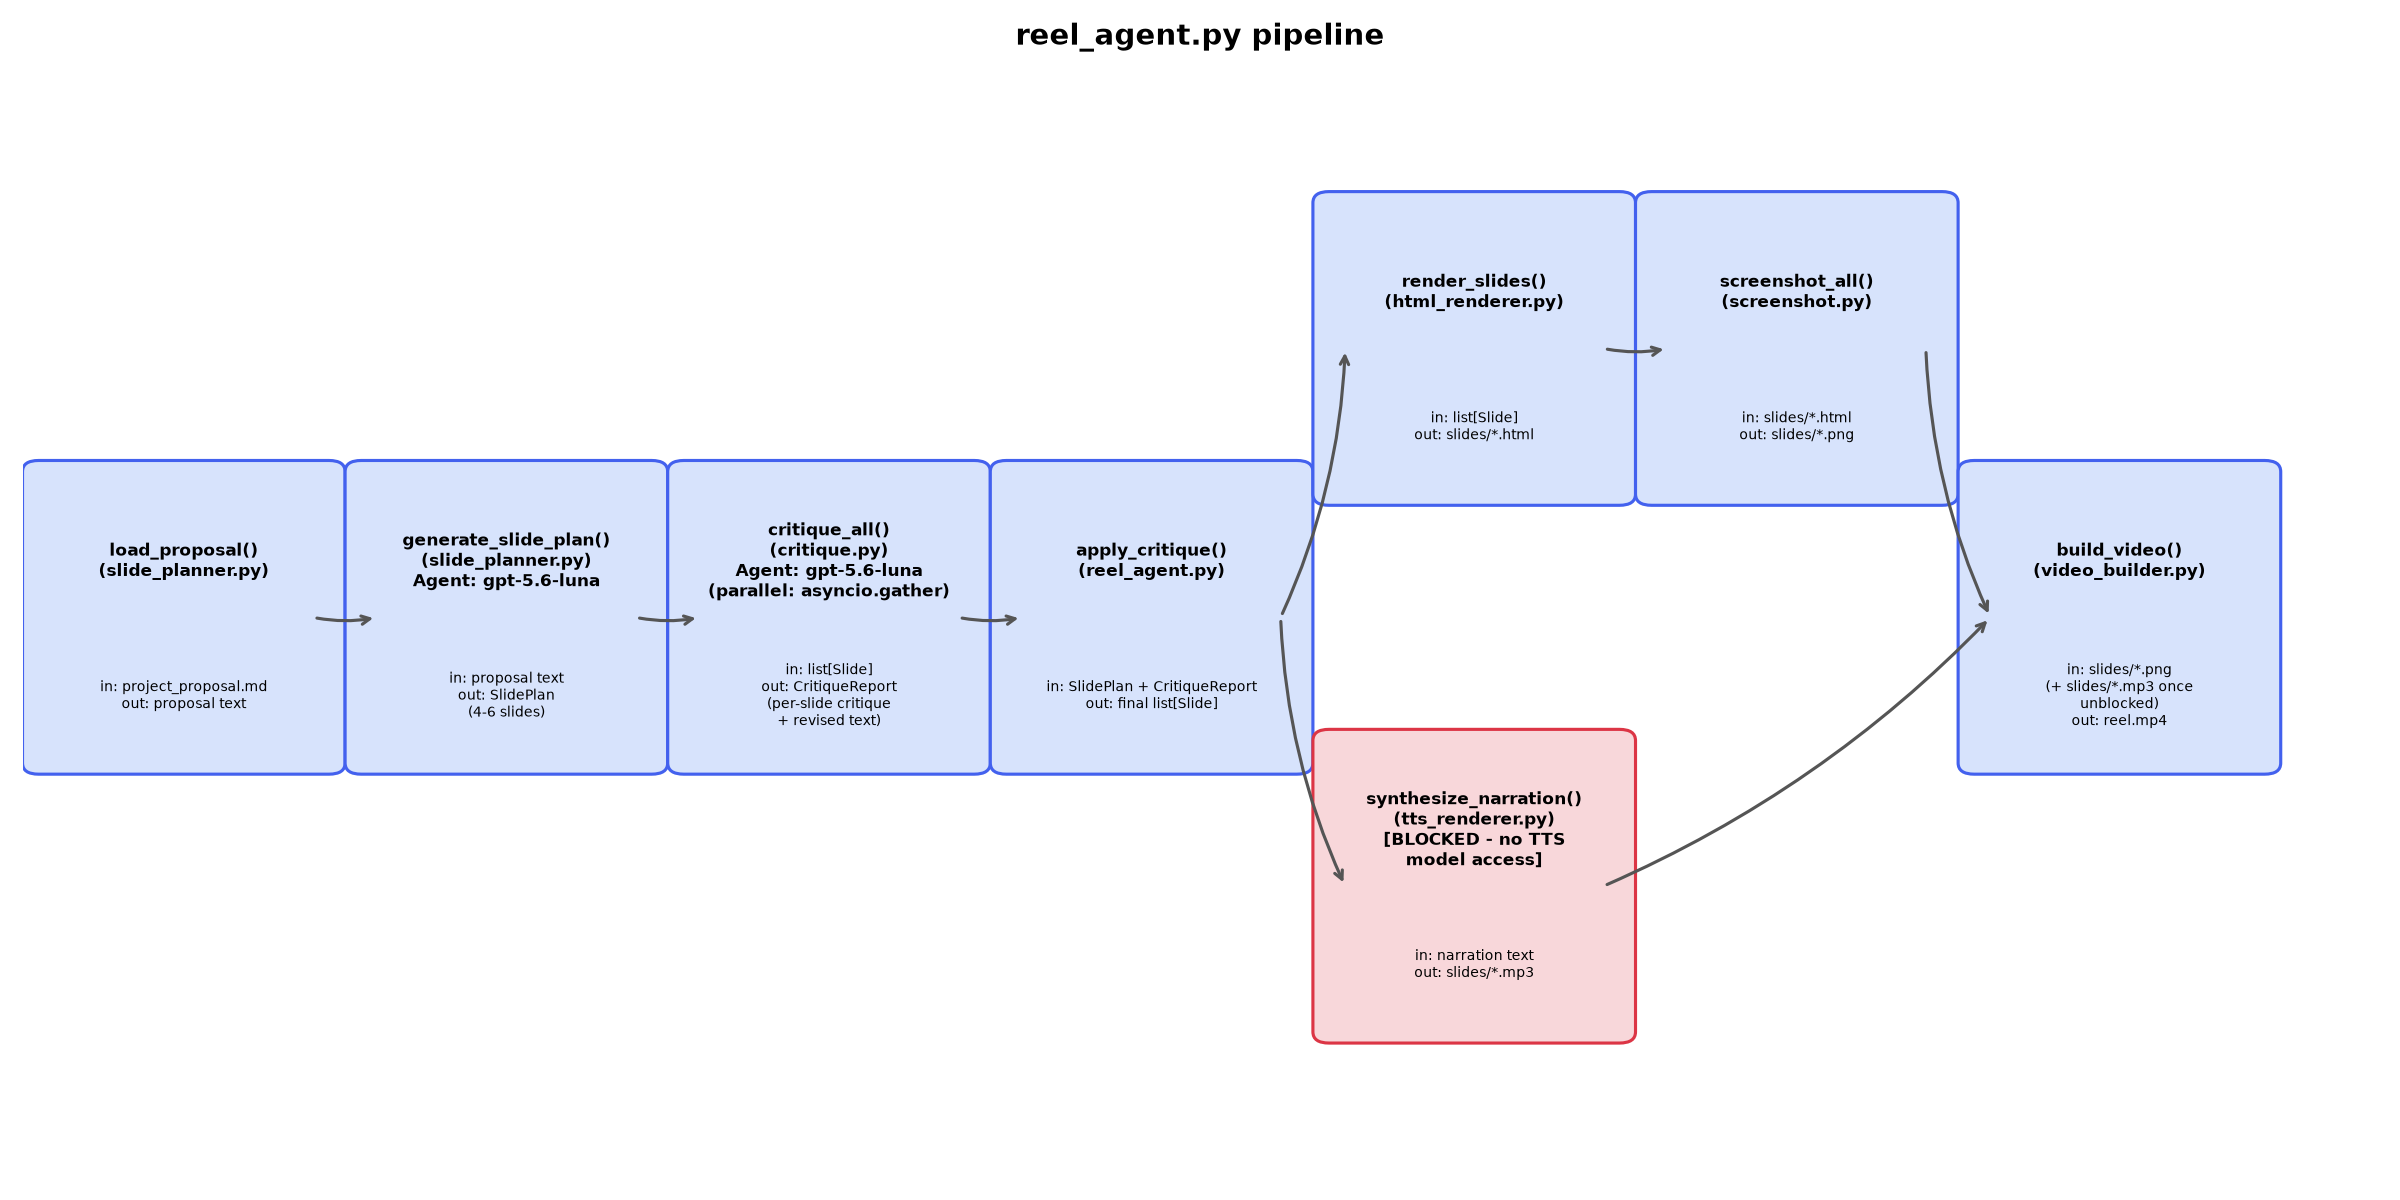
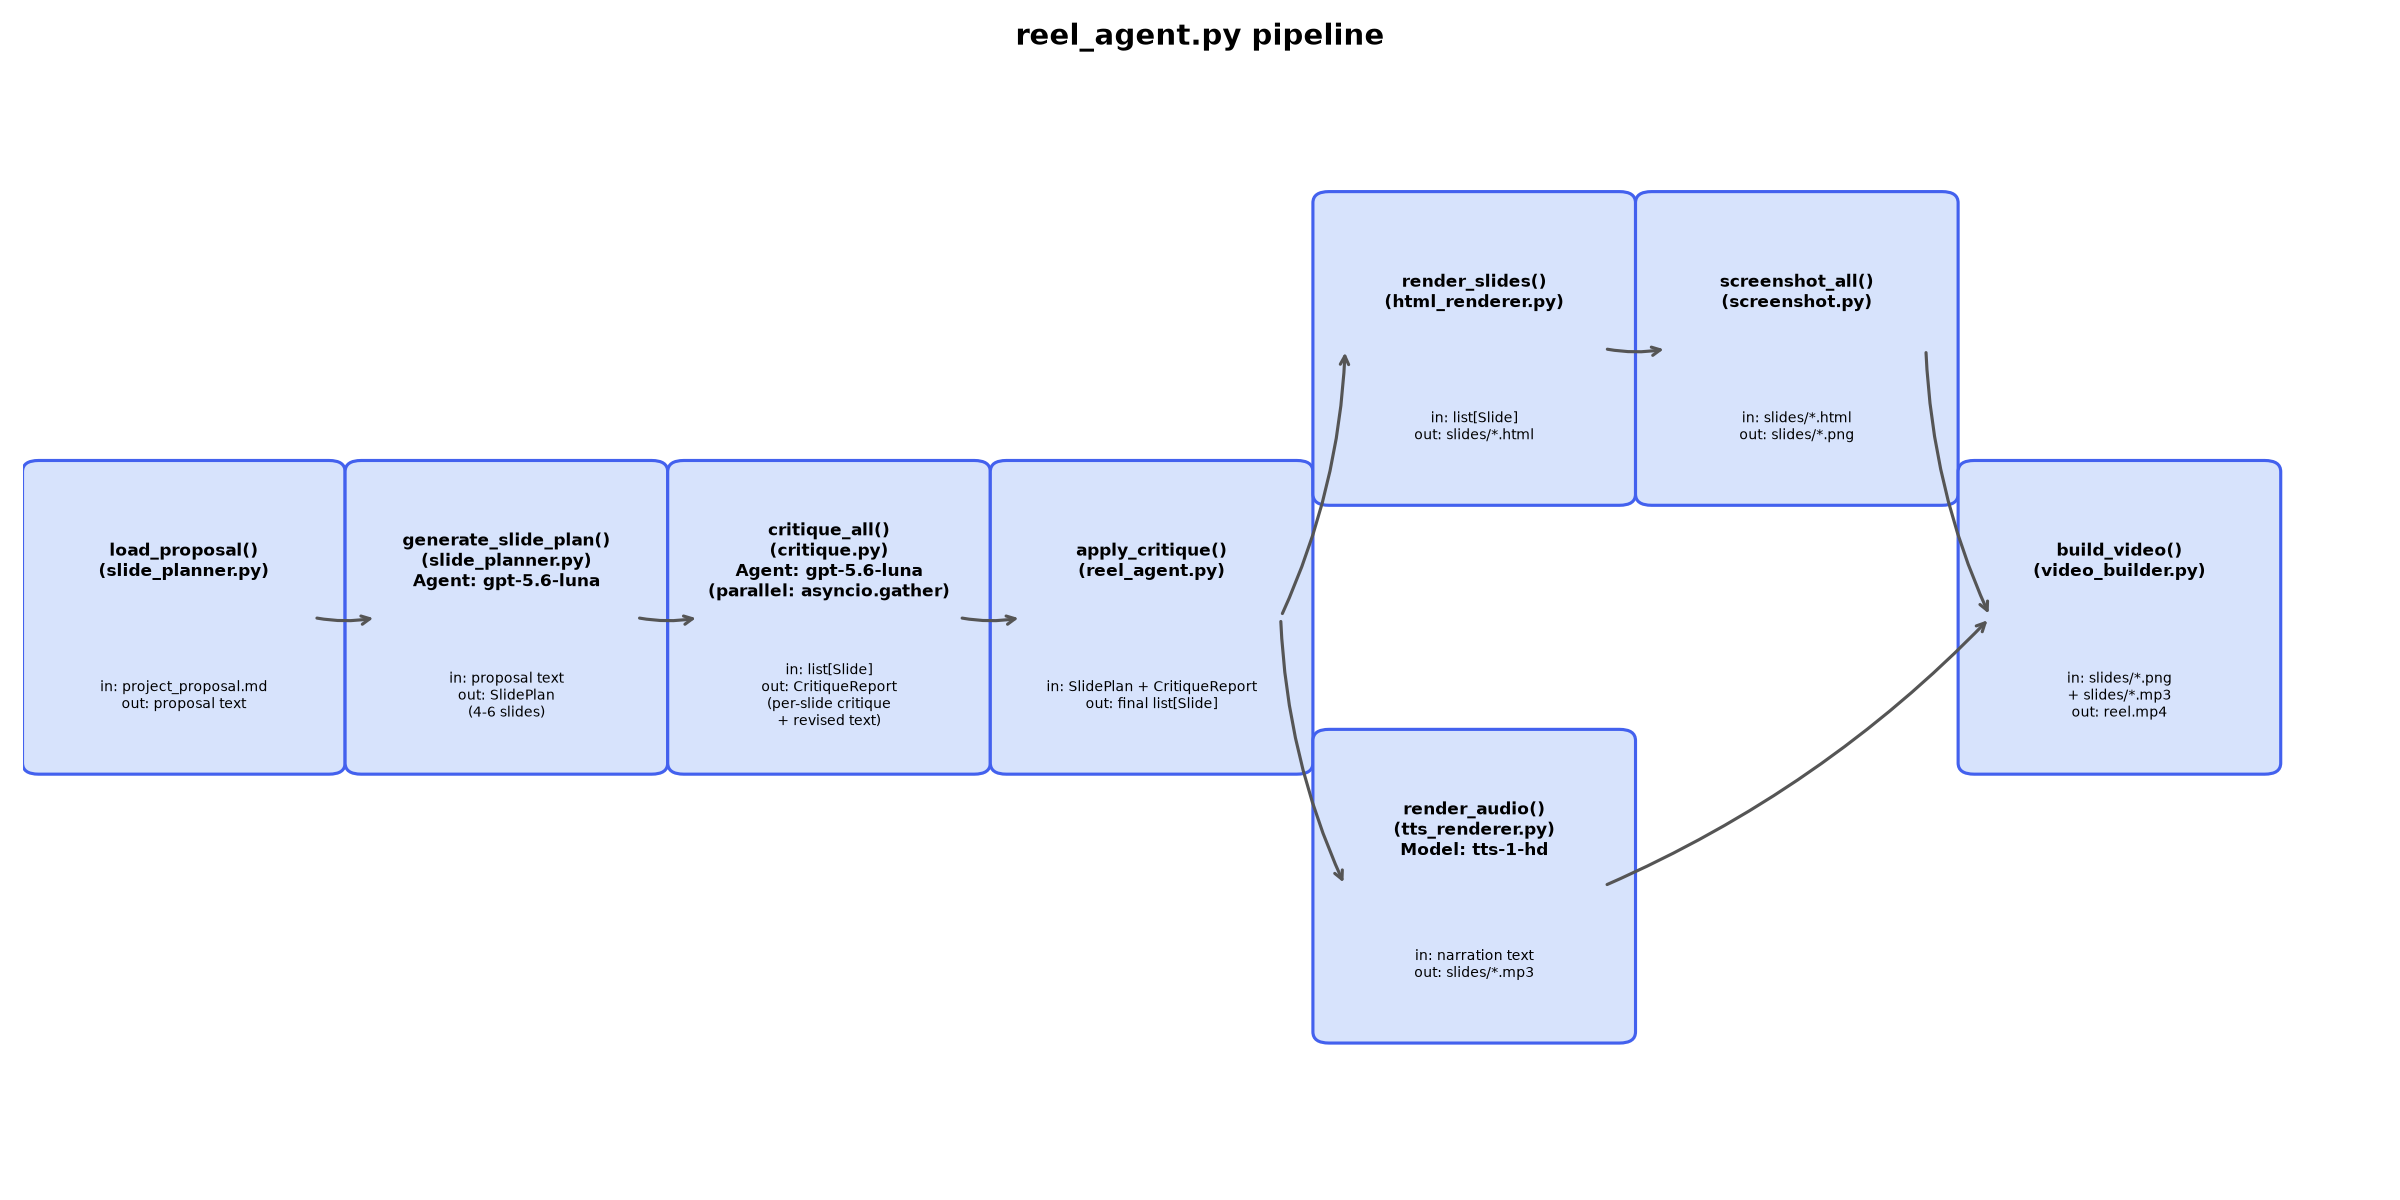
Remove walking figure from slide 1, fix stale agent_flow.png
The flow diagram still showed TTS as blocked from before tts-1-hd was
wired in; regenerate it to show render_audio() as a normal working
step instead of a red BLOCKED node.

Changed region(s): [[0.5312, 0.5858, 0.6875, 0.8942], [0.8438, 0.555, 0.9062, 0.6167]]

diff --git a/slides/slide_1.html b/slides/slide_1.html
@@ -121,14 +121,6 @@
       <path d="M105 118 L128 126 L105 134 Z" fill="#58a6ff"/>
     </g>
 
-    <!-- walking player figure, near the WORK tower -->
-    <g fill="#ffe08a" opacity="0.9">
-      <circle cx="205" cy="272" r="6"/>
-      <path d="M199 280 L211 280 L209 296 L206 296 L205 286 L204 296 L201 296 Z"/>
-      <line x1="199" y1="284" x2="191" y2="292" stroke="#ffe08a" stroke-width="3" stroke-linecap="round"/>
-      <line x1="211" y1="284" x2="219" y2="278" stroke="#ffe08a" stroke-width="3" stroke-linecap="round"/>
-    </g>
-
     <!-- INVEST marker: stock tower with ticker, green -->
     <g>
       <rect x="490" y="120" width="100" height="180" fill="url(#panelGradient)" stroke="#3fb950" stroke-width="2" filter="url(#dropshadow)"/>

diff --git a/draw_flow_diagram.py b/draw_flow_diagram.py
@@ -10,9 +10,9 @@ NODES = [
     ("critique_all()\n(critique.py)\nAgent: gpt-5.6-luna\n(parallel: asyncio.gather)", "in: list[Slide]\nout: CritiqueReport\n(per-slide critique\n+ revised text)", 2, 4),
     ("apply_critique()\n(reel_agent.py)", "in: SlidePlan + CritiqueReport\nout: final list[Slide]", 3, 4),
     ("render_slides()\n(html_renderer.py)", "in: list[Slide]\nout: slides/*.html", 4, 5.2),
-    ("synthesize_narration()\n(tts_renderer.py)\n[BLOCKED - no TTS\nmodel access]", "in: narration text\nout: slides/*.mp3", 4, 2.8),
+    ("render_audio()\n(tts_renderer.py)\nModel: tts-1-hd", "in: narration text\nout: slides/*.mp3", 4, 2.8),
     ("screenshot_all()\n(screenshot.py)", "in: slides/*.html\nout: slides/*.png", 5, 5.2),
-    ("build_video()\n(video_builder.py)", "in: slides/*.png\n(+ slides/*.mp3 once\nunblocked)\nout: reel.mp4", 6, 4),
+    ("build_video()\n(video_builder.py)", "in: slides/*.png\n+ slides/*.mp3\nout: reel.mp4", 6, 4),
 ]
 
 EDGES = [
@@ -30,9 +30,8 @@ box_w, box_h = 0.9, 1.3
 centers = {}
 
 for i, (title, io, x, y) in enumerate(NODES):
-    blocked = "BLOCKED" in title
-    color = "#f8d7da" if blocked else "#d7e3fc"
-    edge = "#dc3545" if blocked else "#4361ee"
+    color = "#d7e3fc"
+    edge = "#4361ee"
     box = FancyBboxPatch(
         (x - box_w / 2, y - box_h / 2), box_w, box_h,
         boxstyle="round,pad=0.05", linewidth=1.5,

diff --git a/html_renderer.py b/html_renderer.py
@@ -177,14 +177,6 @@ VISUAL_SLIDE_1 = """<!doctype html>
       <path d="M105 118 L128 126 L105 134 Z" fill="#58a6ff"/>
     </g>
 
-    <!-- walking player figure, near the WORK tower -->
-    <g fill="#ffe08a" opacity="0.9">
-      <circle cx="205" cy="272" r="6"/>
-      <path d="M199 280 L211 280 L209 296 L206 296 L205 286 L204 296 L201 296 Z"/>
-      <line x1="199" y1="284" x2="191" y2="292" stroke="#ffe08a" stroke-width="3" stroke-linecap="round"/>
-      <line x1="211" y1="284" x2="219" y2="278" stroke="#ffe08a" stroke-width="3" stroke-linecap="round"/>
-    </g>
-
     <!-- INVEST marker: stock tower with ticker, green -->
     <g>
       <rect x="490" y="120" width="100" height="180" fill="url(#panelGradient)" stroke="#3fb950" stroke-width="2" filter="url(#dropshadow)"/>
